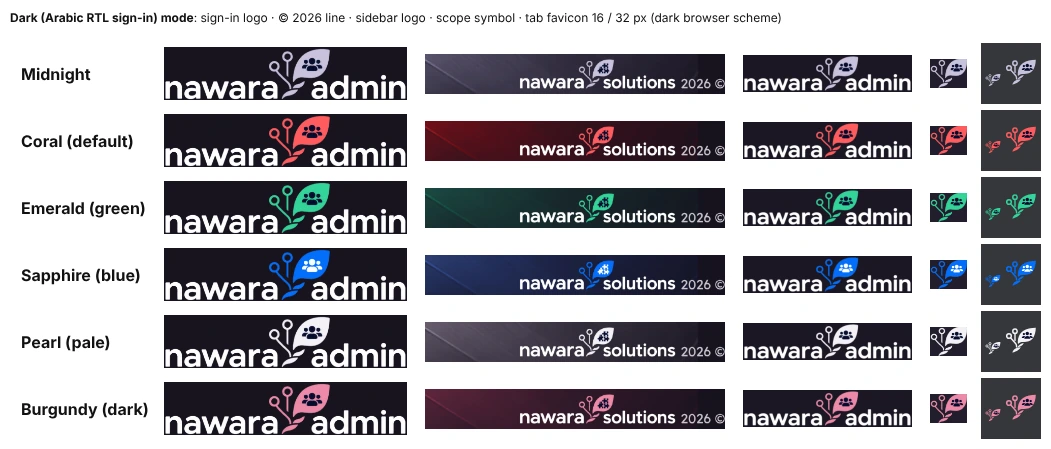
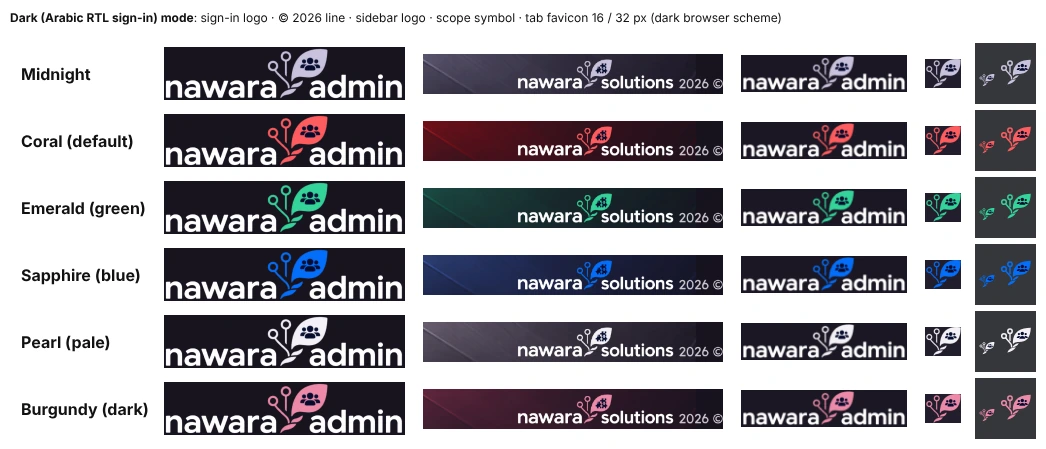
fix(brand): navy pictograms on the Sapphire leaf in every mode (B1)
Owner pre-merge fix: on Sapphire's saturated reference blue the Admin
people and Solutions puzzle use the logo's navy #040b2d (4.23:1), never
white, in light and dark mode; the leaf stays the reference blue.

- tokens/_accents.scss: sapphire-light sets --nw-logo-detail to the
  navy; sapphire-dark drops its white override and takes the dark
  theme's navy.
- Favicons regenerated: favicon-sapphire[-light].svg now paint the
  pictogram navy in both browser schemes.
- check:contrast (3:1) and check:brand pass; fresh matrix, Sapphire
  close-ups and favicon sheet in docs/review/b1-polish; BRAND.md.

Claude-Session: https://claude.ai/code/session_01G2LTtdx3RKU9DuCanBHHhH

diff --git a/src/styles/tokens/_accents.scss b/src/styles/tokens/_accents.scss
@@ -273,6 +273,8 @@
   @include brand-artwork.sapphire-light;
   // The blue palette keeps the Nawara logos' reference blue (owner, B1): the approved artwork's own colour.
   --nw-logo-accent: #046efa;
+  // Owner pre-merge fix: on the saturated reference blue the pictogram is the logo's navy (4.23:1), never white.
+  --nw-logo-detail: #040b2d;
   --nw-color-primary: #2563eb;
   --nw-color-primary-hover: #1d4ed8;
   --nw-color-primary-active: #1e40af;
@@ -293,8 +295,7 @@
   @include brand-artwork.sapphire-dark;
   // The blue palette keeps the Nawara logos' reference blue (owner, B1): the approved artwork's own colour.
   --nw-logo-accent: #046efa;
-  // On the reference blue, white (4.55:1) is clearer than the dark theme's navy pictogram (4.23:1).
-  --nw-logo-detail: var(--nw-ref-ink-0);
+  // Owner pre-merge fix: the pictogram is the dark theme's navy (4.23:1 on the reference blue), never white.
   --nw-color-primary: #60a5fa;
   --nw-color-primary-hover: #93c5fd;
   --nw-color-primary-active: #bfdbfe;

diff --git a/src/styles/tokens/_theme-dark.scss b/src/styles/tokens/_theme-dark.scss
@@ -54,7 +54,8 @@
   // keeps the reference blue, tokens/_accents.scss); the lettering is per theme; the white details never change.
   --nw-logo-accent: var(--nw-color-primary);
   // The pictogram inside the leaf (people, puzzle): the candidate (white or the logo's navy) with the higher contrast on
-  // the leaf, the logo's own lettering navy (sampled): the higher contrast on every dark-mode leaf but Sapphire's; check:contrast holds it to 3:1 on every palette.
+  // the leaf, the logo's own lettering navy (sampled) on every dark-mode leaf, Sapphire's included; check:contrast holds
+  // it to 3:1 on every palette.
   --nw-logo-detail: #040b2d;
   --nw-logo-admin-lettering: url('/brand/nawara-admin-lettering-on-dark.webp');
   --nw-logo-admin-symbol-mask: url('/brand/nawara-admin-symbol-mask.webp');

diff --git a/src/styles/tokens/_theme-light.scss b/src/styles/tokens/_theme-light.scss
@@ -57,7 +57,8 @@
   // keeps the reference blue, tokens/_accents.scss); the lettering is per theme; the white details never change.
   --nw-logo-accent: var(--nw-color-primary);
   // The pictogram inside the leaf (people, puzzle): the candidate (white or the logo's navy) with the higher contrast on
-  // the leaf, white: the higher contrast on every light-mode leaf; check:contrast holds it to 3:1 on every palette.
+  // the leaf, white on light-mode leaves (Sapphire's saturated reference blue takes the navy, tokens/_accents.scss); check:contrast
+  // holds it to 3:1 on every palette.
   --nw-logo-detail: var(--nw-ref-ink-0);
   --nw-logo-admin-lettering: url('/brand/nawara-admin-lettering.webp');
   --nw-logo-admin-symbol-mask: url('/brand/nawara-admin-symbol-mask.webp');

diff --git a/docs/BRAND.md b/docs/BRAND.md
@@ -20,11 +20,14 @@ light and dark; the lettering and the white details inside the leaf never change
 
 **Final polish (owner, 2026-11-01):**
 
-- **Pictogram colour.** The pictogram inside the leaf (Admin people, Solutions puzzle) is painted with `--nw-logo-detail`:
-  whichever of white `#ffffff` and the logo's own navy `#040b2d` has the higher contrast on that leaf. That gives white on
-  every light-mode leaf and navy on every dark-mode leaf, except Sapphire, whose reference blue keeps white (4.55:1 against
-  4.23:1). Every combination is at least 4.55:1, and `check:contrast` holds the pair to 3:1. The same colours are used in
-  the favicons.
+- **Pictogram colour.** The pictogram inside the leaf (Admin people, Solutions puzzle) is painted with `--nw-logo-detail`,
+  white `#ffffff` or the logo's own navy `#040b2d`, chosen per palette for the clearest definition:
+  - **navy** on every dark-mode leaf and on **Sapphire** in both modes. On Sapphire's saturated reference blue the owner
+    requires the dark pictogram (pre-merge fix): 4.23:1, against 4.55:1 for white;
+  - **white** on the other light-mode leaves.
+
+  Every combination is at least 4.23:1, and `check:contrast` holds the pair to 3:1. The same colours are used in the
+  favicons.
 - **Logo boxes.** The logo boxes take the logo's own proportions, so the logo fills them instead of floating in them. Same
   height, so nothing moves vertically:
   - sign-in logo 173 → 240 px wide;
